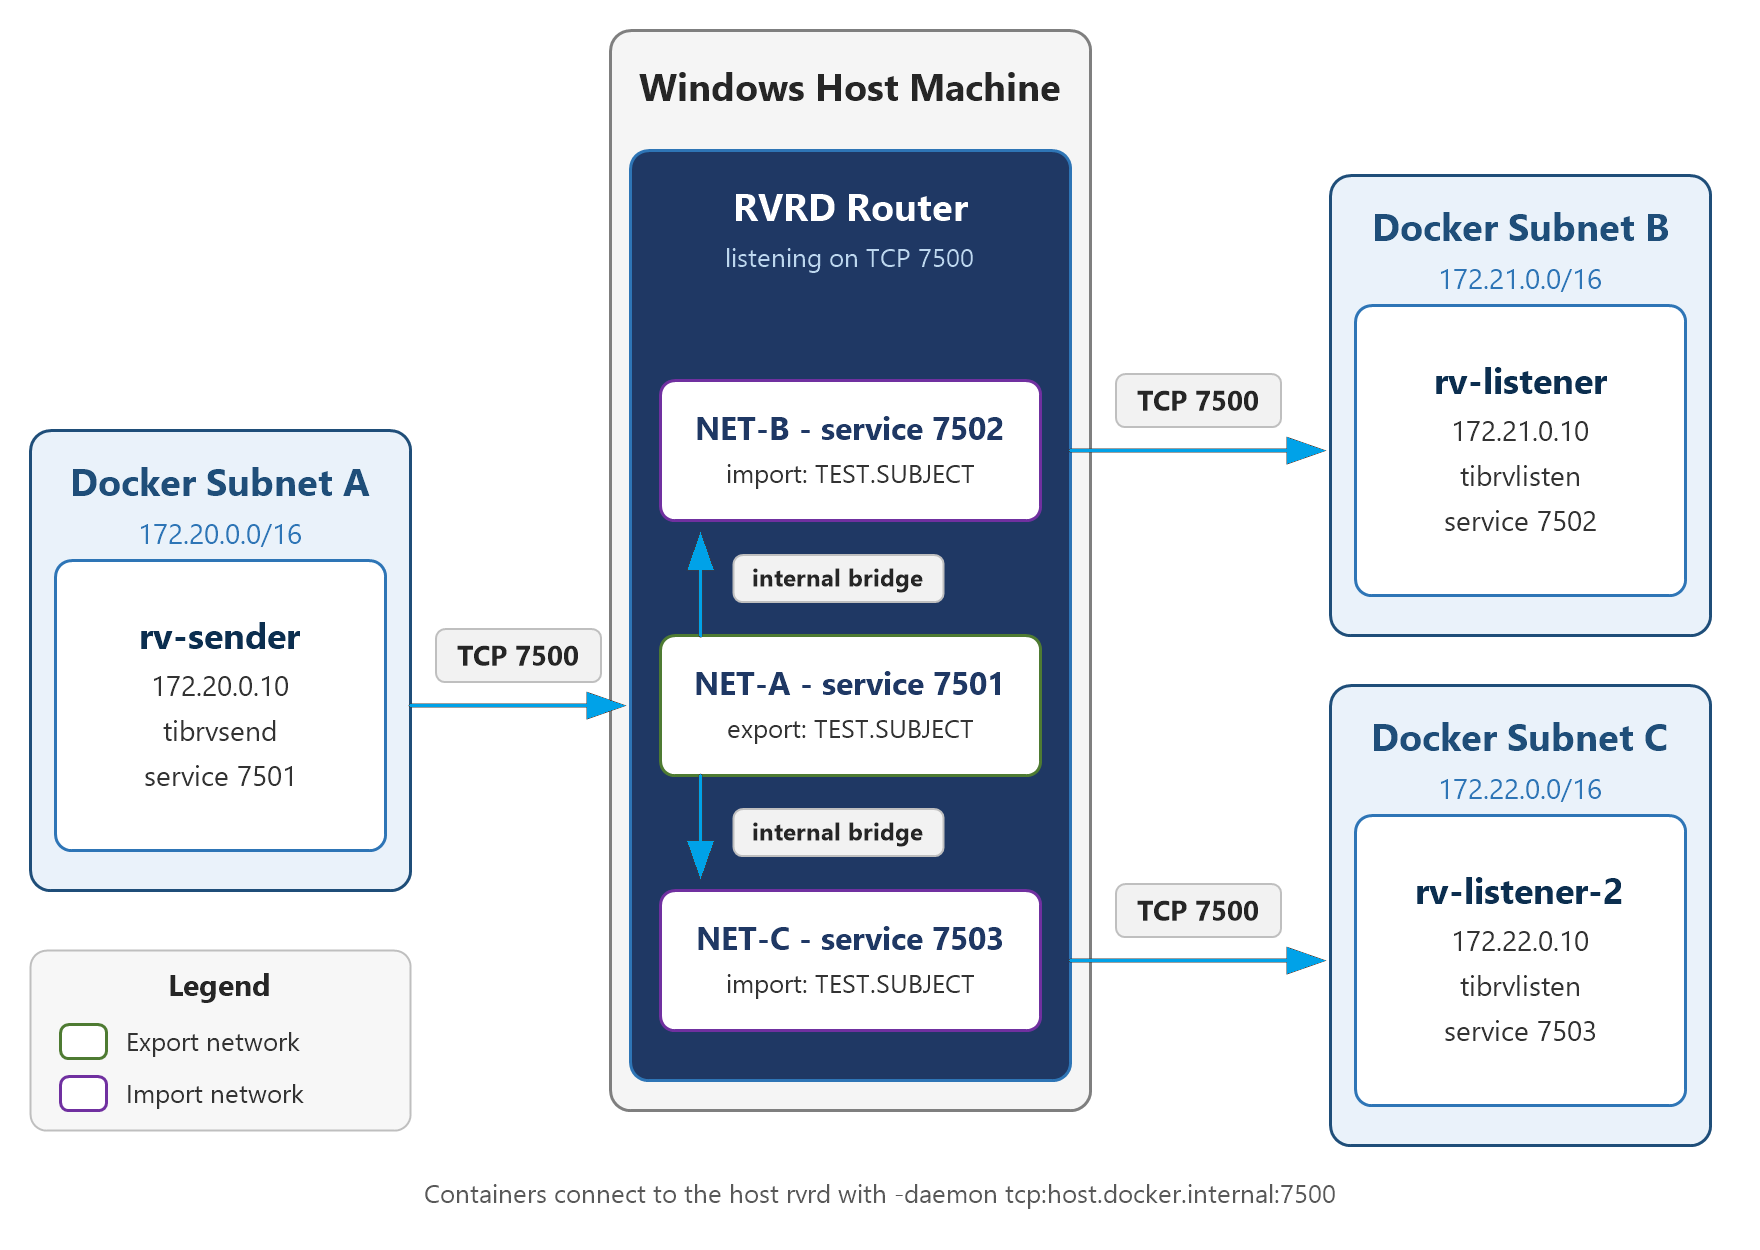
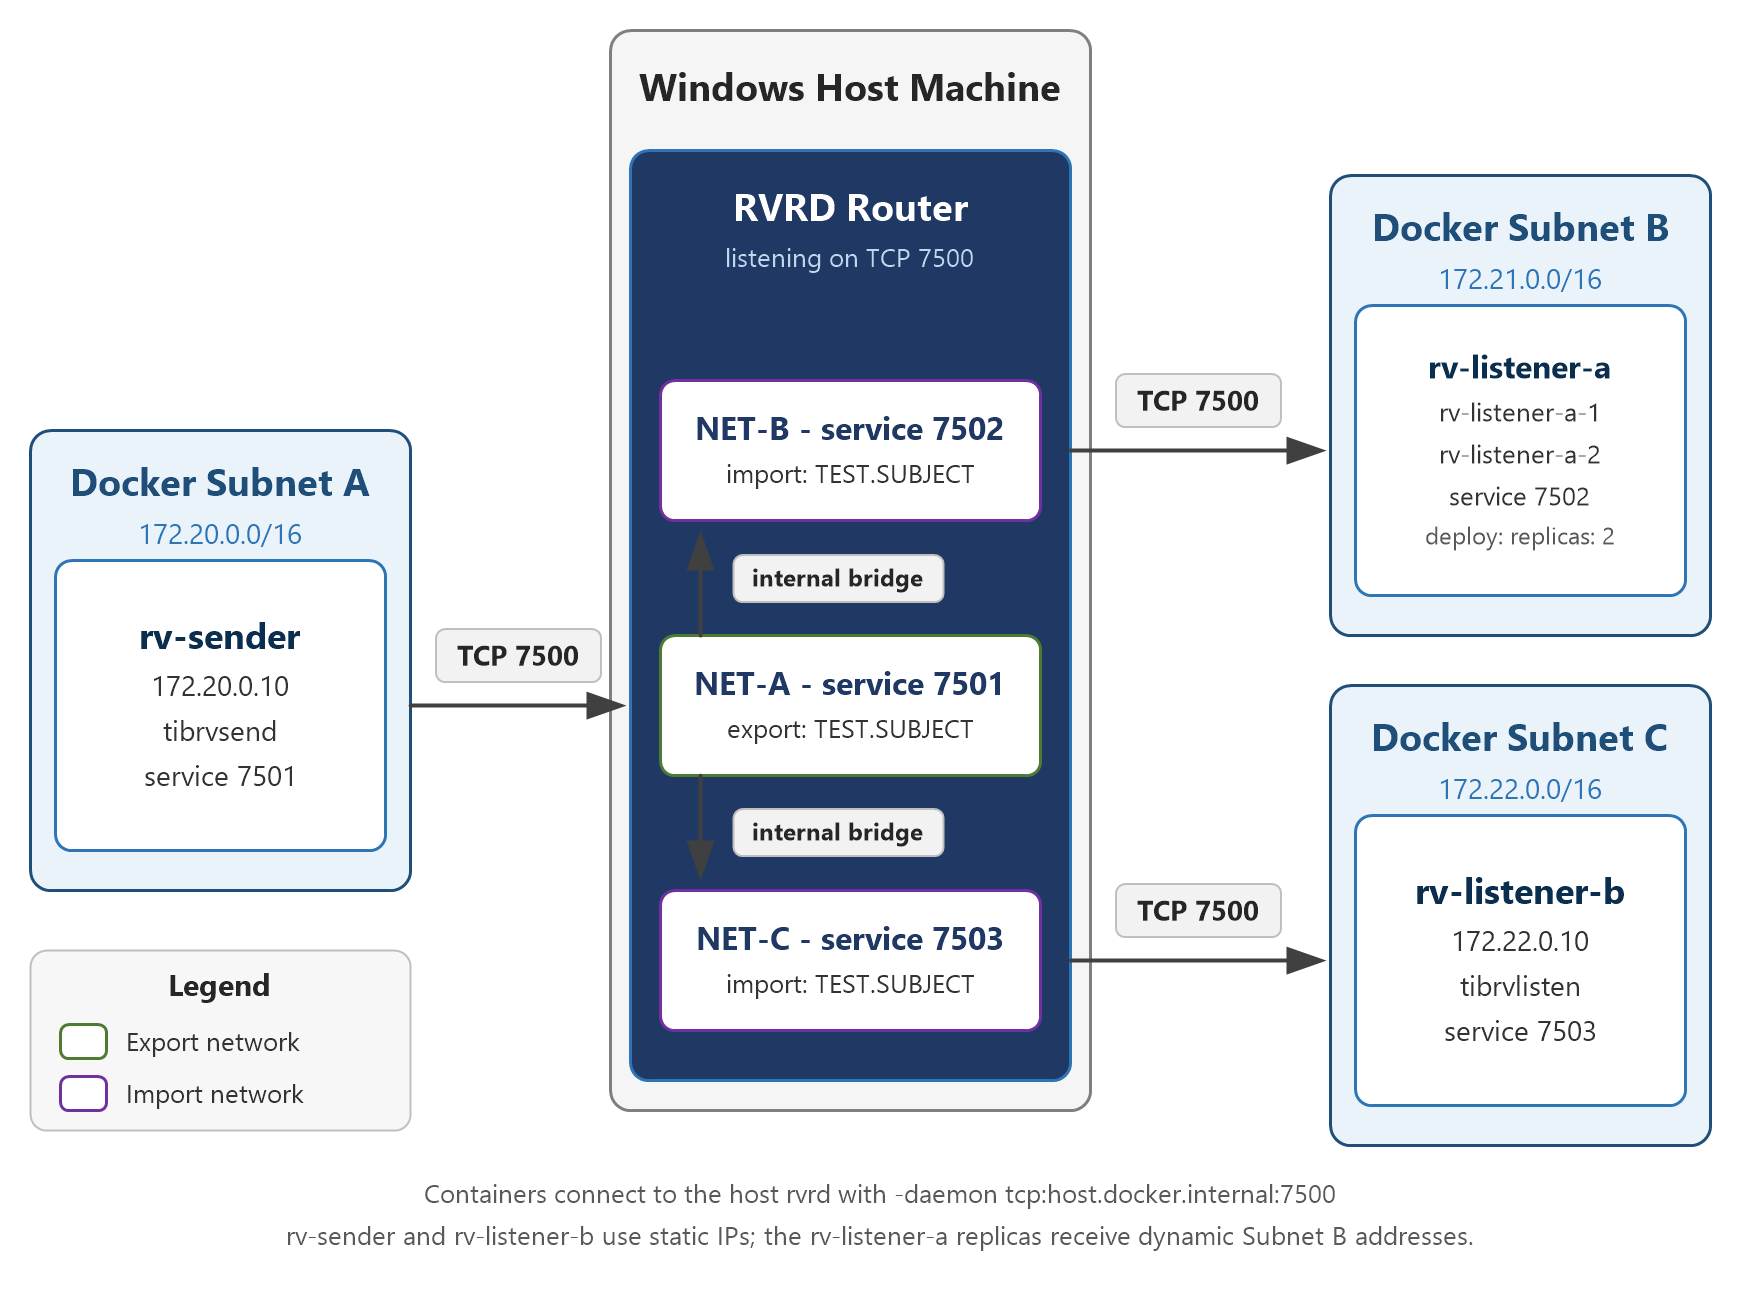
added new listener

diff --git a/README.md b/README.md
@@ -8,6 +8,8 @@ Since standard TIBCO RV relies on UDP multicast/broadcast, it cannot natively cr
 ## ARCHITECTURE DIAGRAM
 ![Architecture](img/architecture.png)
 
+The topology runs four containers: one publisher on Subnet A (`rv-sender`, service 7501), two replicas of the Subnet B subscriber (`rv-listener-a-1` and `rv-listener-a-2`, service 7502) and one Subnet C subscriber (`rv-listener-b`, service 7503).
+
 
 ## PREREQUISITES
 
@@ -38,27 +40,30 @@ services:
       subnet_a:
         ipv4_address: 172.20.0.10
 
-  # 2. First Subscriber Container on Subnet B (Service 7502)
-  rv-listener:
+  # 2. Subscriber Containers on Subnet B (Service 7502)
+  rv-listener-a:
     image: tibco-rv:9.0.0
-    container_name: rv-listener
+    #container_name: rv-listener
     hostname: localhost
     volumes:
       - C:\Users\dmassimi\containers\resources\addons\license:/data/license
     environment:
       - TIBRV_LICENSE=file:///data/license/dmassimi-vdi_ANY.bin
+    # Listens specifically for TEST.SUBJECT on Service 7502
     command: >
       bash -c "tibrvlisten -service 7502 -daemon tcp:host.docker.internal:7500 TEST.SUBJECT"
     extra_hosts:
       - "host.docker.internal:host-gateway"
+    # Two replicas: Docker creates rv-listener-a-1 and rv-listener-a-2
+    deploy:
+      replicas: 2
     networks:
-      subnet_b:
-        ipv4_address: 172.21.0.10
+      - subnet_b
 
   # 3. Second Subscriber Container on Subnet C (Service 7503)
-  rv-listener-2:
+  rv-listener-b:
     image: tibco-rv:9.0.0
-    container_name: rv-listener-2
+    container_name: rv-listener-b
     hostname: localhost
     volumes:
       - C:\Users\dmassimi\containers\resources\addons\license:/data/license
@@ -132,36 +137,40 @@ Click Add Local Network three times to create the following entries:
 **Step 4: Start Containers**
 
 Open a terminal in the directory containing your docker-compose.yml file and run:
-docker-compose up -d --force-recreate
+```bash
+docker compose up -d --force-recreate
+```
 
-All three containers should start and stay running:
+Note: `deploy.replicas` is only honored by the Compose V2 CLI (`docker compose`). The legacy `docker-compose` (V1) binary ignores it unless you add `--compatibility`.
 
-![Docker Desktop - rv-sender, rv-listener and rv-listener-2 running](img/list-containers.png)
+All four containers should start and stay running (rv-sender, rv-listener-a-1, rv-listener-a-2 and rv-listener-b):
+
+![Docker Desktop - rv-sender, rv-listener-a-1, rv-listener-a-2 and rv-listener-b running](img/list-containers.png)
 
 
 ## VERIFICATION
 
 To verify that routing is working, observe the logs of the subscriber containers.
 
-Terminal 1 (rv-listener on Subnet B):
-`docker logs -f rv-listener`
+Terminal 1 (rv-listener-b on Subnet C):
+`docker logs -f rv-listener-b`
 
-Expected Output: 
-```console
-2026-09-28 10:01:11: subject=TEST.SUBJECT, message={DATA="Hello from Subnet A!"}
-```
-Terminal 2 (rv-listener-2 on Subnet C):
-`docker logs -f rv-listener-2`
+Terminal 2 (first rv-listener-a replica on Subnet B):
+`docker logs -f rvrd_docker_project-rv-listener-a-1`
 
+Terminal 3 (second rv-listener-a replica on Subnet B):
+`docker logs -f rvrd_docker_project-rv-listener-a-2`
 
-Expected Output: 
+Expected Output (identical in all three terminals):
 
 ```console
-2026-09-28 10:01:11: subject=TEST.SUBJECT, message={DATA="Hello from Subnet A!"}
+2026-09-30 07:29:53: subject=TEST.SUBJECT, message={DATA="Hello from Subnet A!"}
 ```
 
-In the logs, rv-sender publishes once while both rv-listener and rv-listener-2 receive the same message:
+Since rv-listener-a has no `container_name`, Docker prefixes each replica with the Compose project name (rvrd_docker_project here - it defaults to the folder name). List the exact names with `docker ps --format "{{.Names}}"`.
 
-![Docker Desktop logs - rv-sender publishing and rv-listener / rv-listener-2 receiving TEST.SUBJECT](img/logs.png)
+In the logs, rv-sender publishes once while all three subscribers receive the same message:
 
-The test is successful if a single message published by rv-sender is simultaneously received by both rv-listener and rv-listener-2, despite all three containers existing on completely isolated network subnets.
+![Docker Desktop logs - rv-sender publishing and the rv-listener-a replicas / rv-listener-b receiving TEST.SUBJECT](img/logs.png)
+
+The test is successful if a single message published by rv-sender is simultaneously received by both rv-listener-a replicas (Subnet B) and by rv-listener-b (Subnet C), despite the containers running on completely isolated network subnets.
